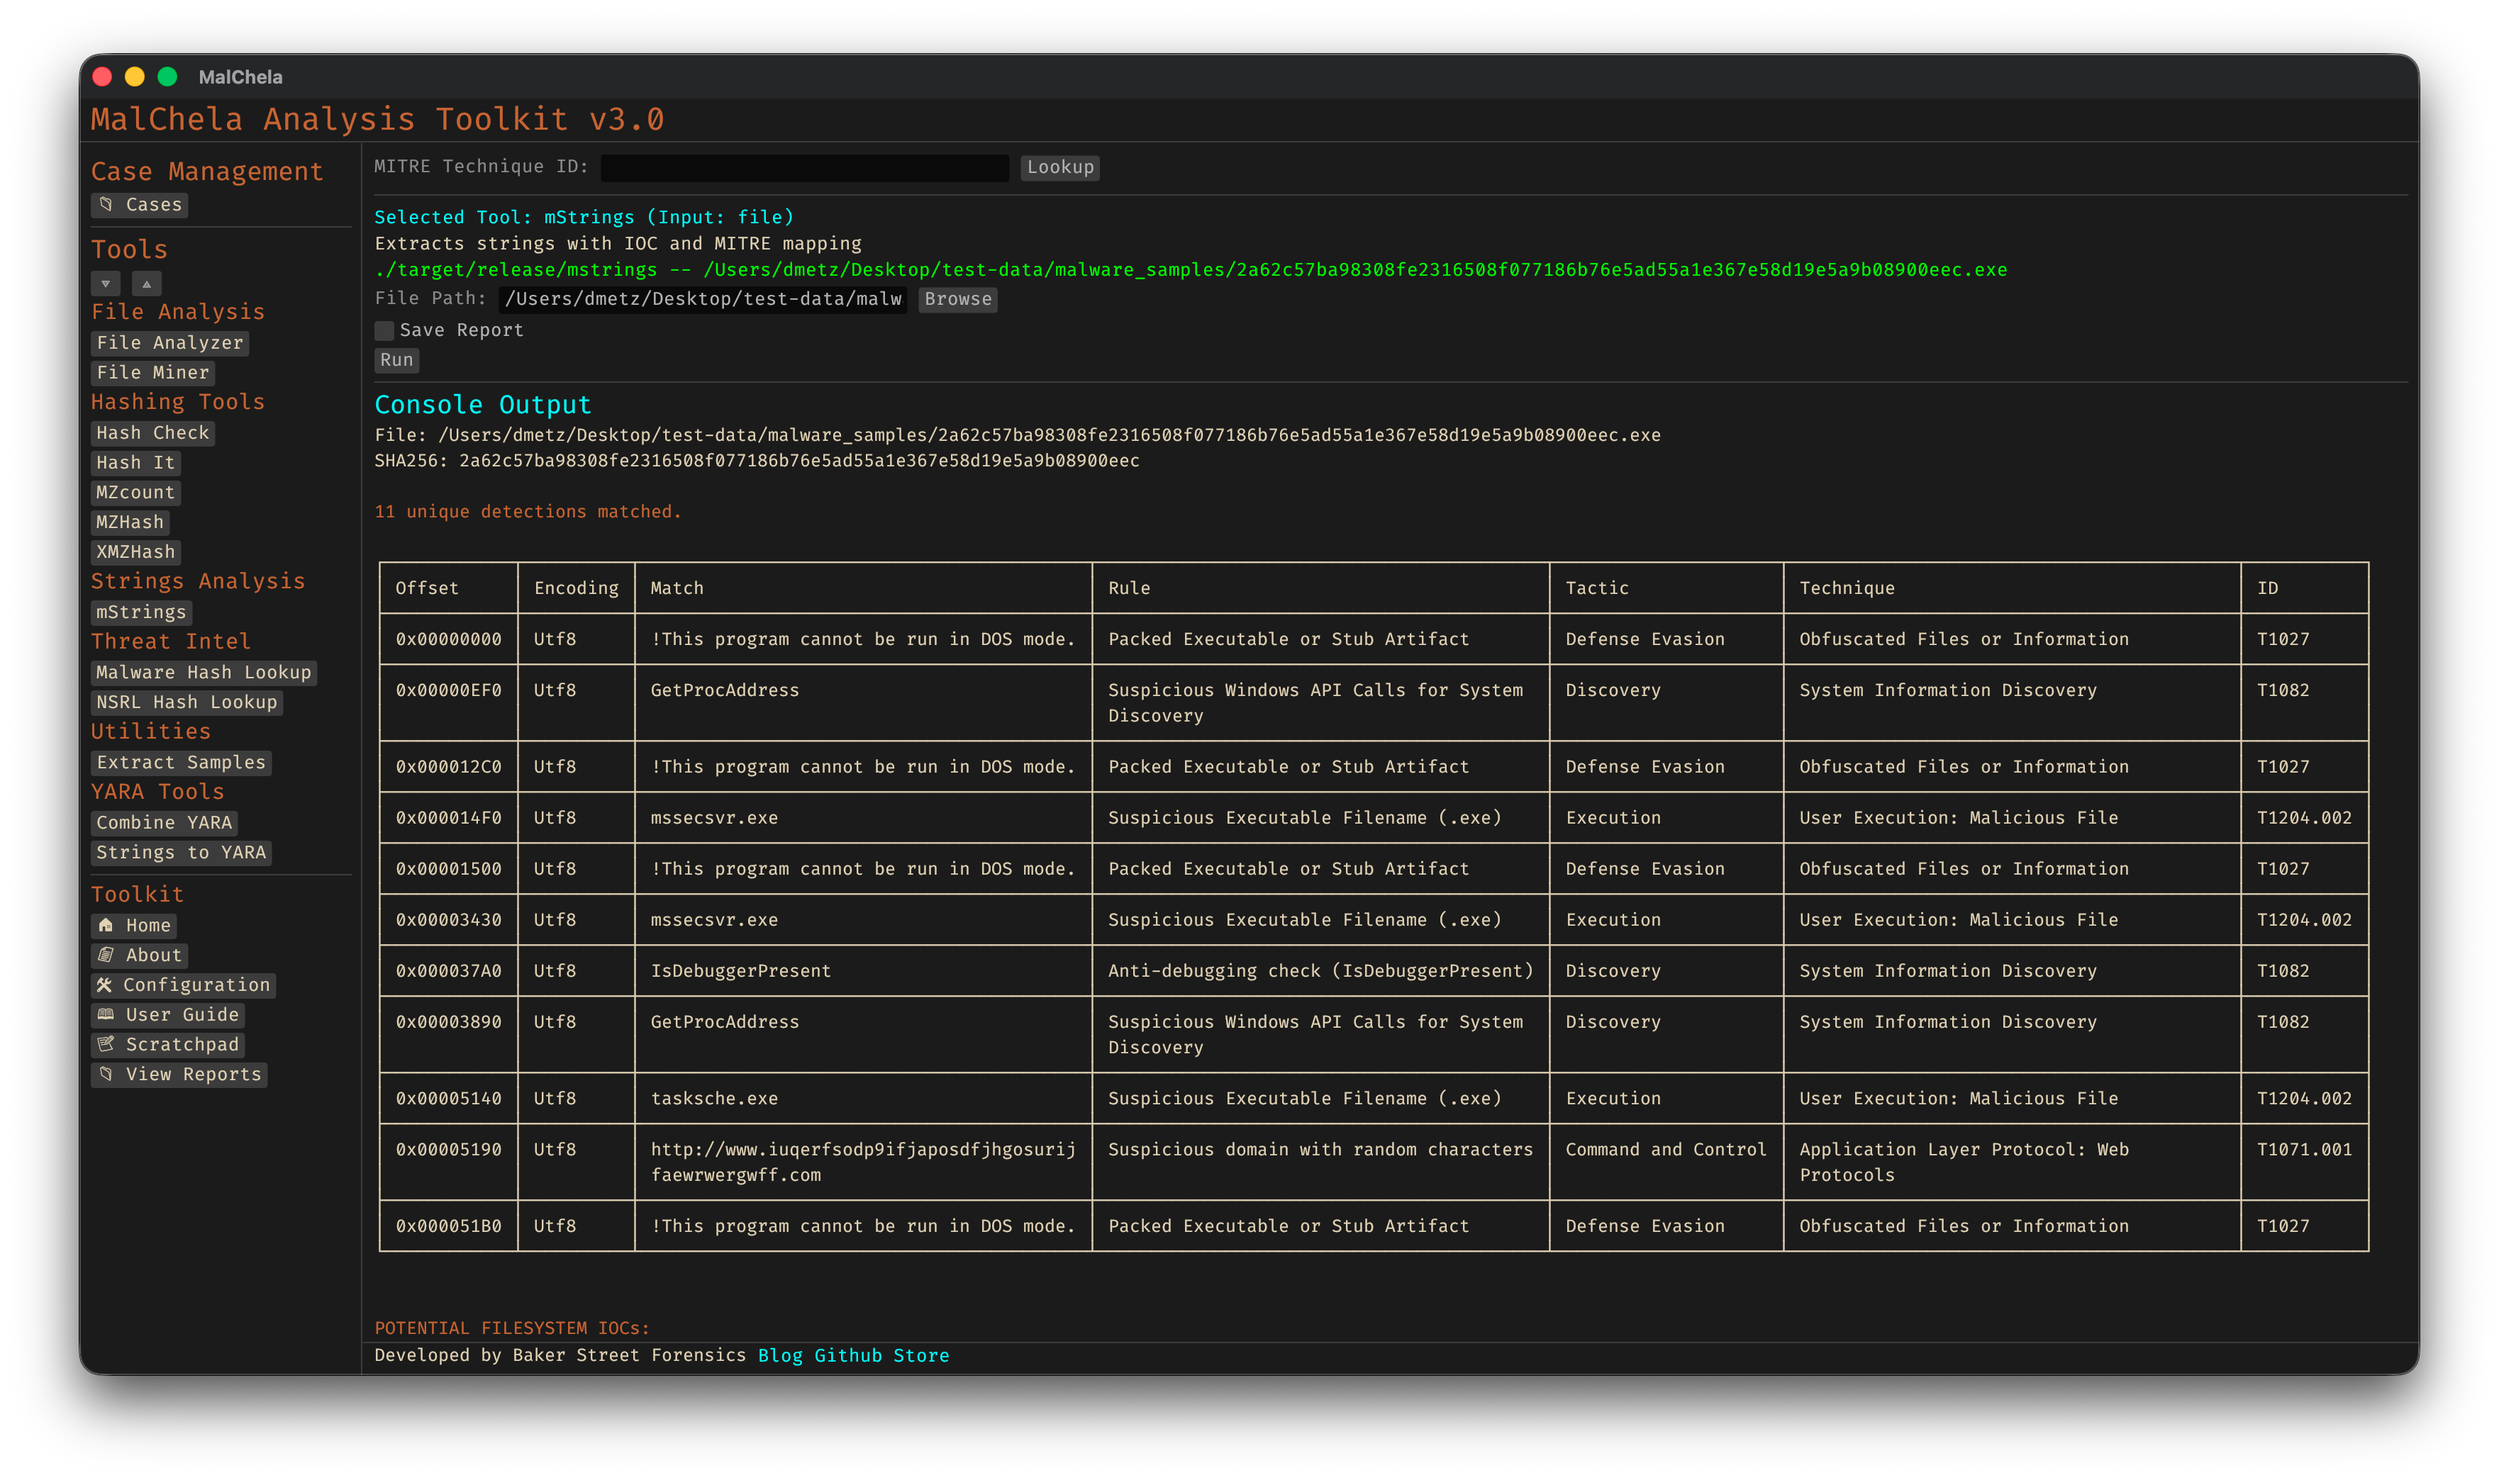
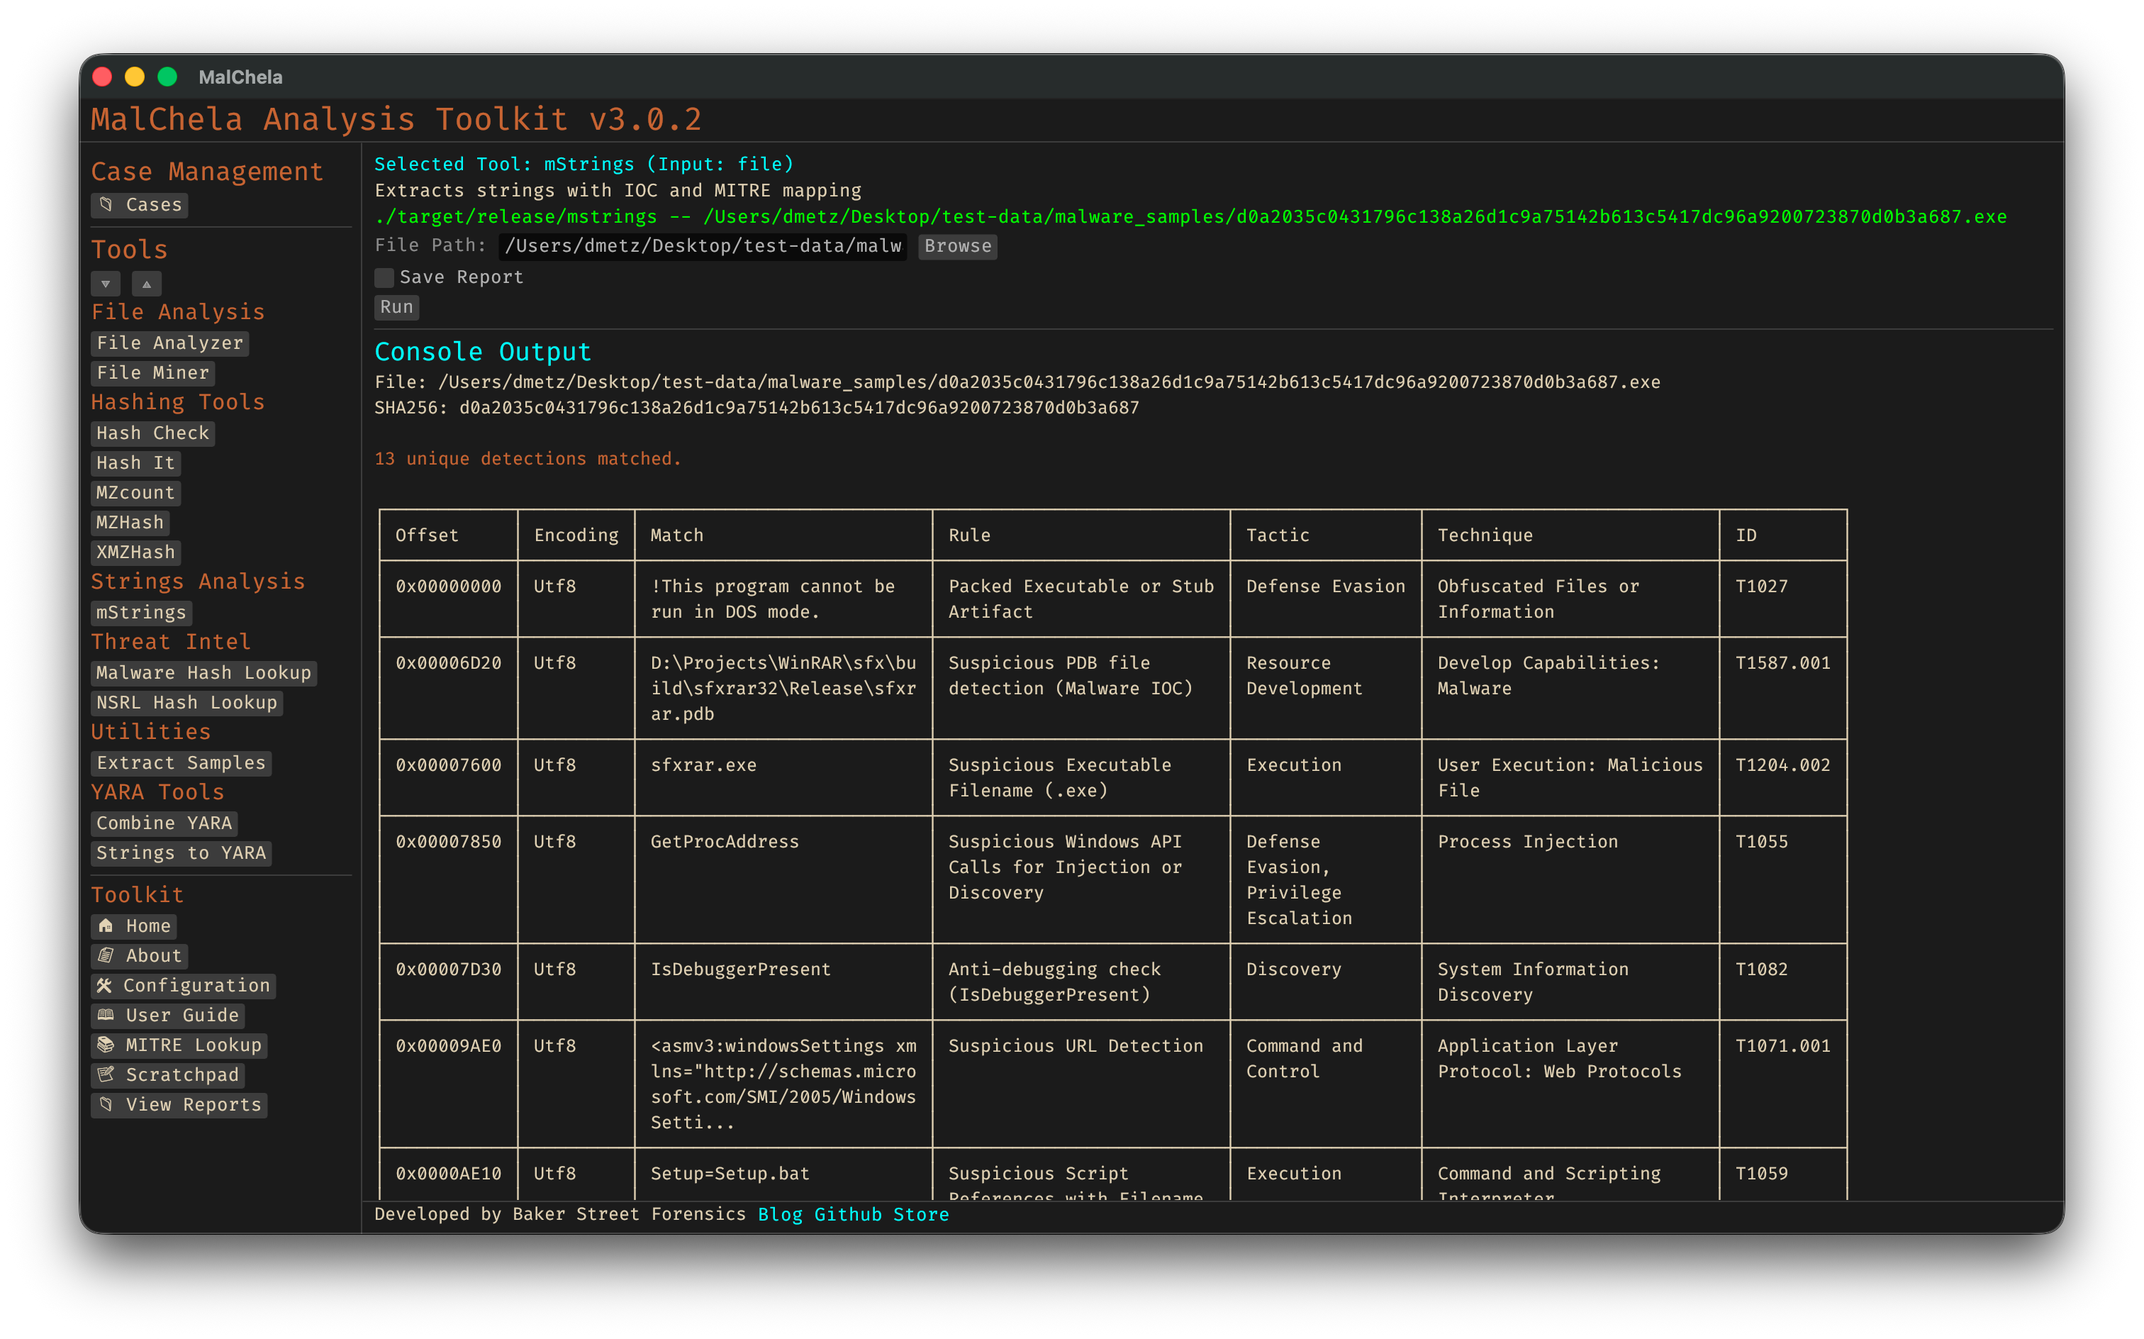
v3.0.2

Changed region(s): [[0.0311, 0.0312, 0.9947, 0.9688], [0.9015, 0.4062, 0.9325, 0.4688], [0.4041, 0.0938, 0.4663, 0.125]]

diff --git a/docs/Coretools/mitre_lookup.md b/docs/Coretools/mitre_lookup.md
@@ -1,0 +1,74 @@
+The MITRE Reference Panel provides a built-in way to explore MITRE ATT&CK techniques directly within MalChela.
+
+This panel supports live search by **technique ID** (e.g., `T1059`) or **keyword** (e.g., "scripting"). It is context-aware and optimized for use alongside tools like `mstrings`.
+
+# MITRE Lookup Panel
+
+## Features
+
+- Full display of technique details:
+  - **Technique title**
+  - **Tactic(s)**
+  - **Platforms**
+  - **Description**
+  - **Detection guidance**
+  - **Malware**
+  - **Tools**
+  - **Intrusion Sets**
+
+
+- Modal view floats above the main console, allowing uninterrupted output viewing
+- --full option to support long-form content (no truncation)
+- Save lookups for later reference or save to a Case
+- Markdown formatting for MITRE reports for inclusion in forensics reports
+
+## Accessing from the MalChela GUI:
+
+- Select **MITRE Lookup** in the left-hand **Toolbox** menu
+- Use the input field at the top of the modal to enter a keyword or technique ID (e.g., `T1059` or `registry`)
+- Use the "Full" checkbox for un-truncated output
+
+![MITRE Lookup](../images/mitre_lookup.png)
+
+<p align="center"><strong>Figure 5.11.1:</strong> MITRE Lookup</p>
+
+## Accessing from CLI
+
+There are two ways to use the MITRE Lookup from the command line:
+
+### 1. From the main MalChela CLI menu
+
+Run the MalChela CLI interface and select `MITRE Lookup` from the Toolbox section:
+
+```bash
+cargo run -p malchela
+```
+
+Then choose `MITRE Lookup` (or press `ml`) from the menu.
+
+### 2. Direct tool execution
+
+You can run the MITRE Lookup tool directly with a search term or flags:
+
+```bash
+# Basic search by keyword or technique ID
+./target/release/MITRE_lookup -- t1027.004
+
+# Use --full to display untruncated results
+./target/release/MITRE_lookup --full -- t1027.004
+```
+![MITRE Lookup (CLI)](../images/mitre_lookup_cli.png)
+
+<p align="center"><strong>Figure 5.11.2:</strong> MITRE Lookup (CLI)</p>
+
+## Example
+
+Searching for `T1027.004` yields:
+
+```
+🔹 T1027.004 - Compile After Delivery  
+Tactic(s): defense-evasion  
+Platforms: Windows, Linux, macOS  
+Detection: Monitor execution of common compilers and correlate with file creation events.  
+Description: Adversaries may compile code after transferring it to a victim system.
+```

diff --git a/docs/Coretools/mstrings.md b/docs/Coretools/mstrings.md
@@ -1,6 +1,6 @@
 mStrings extracts strings from files and classifies them using regular expressions, YARA rules, and MITRE ATT&CK mappings. It highlights potential indicators of compromise and suspicious behavior, grouping matches by tactic and technique. Ideal for quickly surfacing malicious capabilities in binaries, scripts, and documents.
 
-A MITRE Technique Lookup bar is available at the top of the GUI panel when mStrings is selected. You can paste a MITRE technique ID (e.g., `T1055.001`) into the field and click "Lookup" to open the corresponding page on [attack.mitre.org](https://attack.mitre.org/). This is especially useful when reviewing detections with MITRE tags and needing additional context.
+Note: The MITRE Technique Lookup bar, introduced in v3.0.1 has been removed. It has been replaced with a full [MITRE lookup utility](mitre_lookup.md) (no internet required.)
 
 ![MStrings](../images/mstrings.png)
 

diff --git a/docs/Coretools/mzcount.md b/docs/Coretools/mzcount.md
@@ -2,11 +2,11 @@ MZcount recursively scans a directory and counts the number of files that match 
 
 ![MZCount Table View](../images/mzcount_table.png)
 
-<p align="center"><strong>Figure 5.11.1:</strong> MZCount Table View</p>
+<p align="center"><strong>Figure 5.12.1:</strong> MZCount Table View</p>
 
 ![MZCount Detail View](../images/mzcount_detail.png)
 
-<p align="center"><strong>Figure 5.11.2:</strong> MZCount Detail View</p>
+<p align="center"><strong>Figure 5.12.2:</strong> MZCount Detail View</p>
 
 
 

diff --git a/docs/Coretools/strings_to_yara.md b/docs/Coretools/strings_to_yara.md
@@ -4,7 +4,7 @@ Lines beginning with hash: are deliberately ignored during rule generation — t
 
 ![Strings to YARA](../images/strings_to_yara.png)
 
-<p align="center"><strong>Figure 5.14:</strong> Strings to YARA</p>
+<p align="center"><strong>Figure 5.15:</strong> Strings to YARA</p>
 
 ---
 

diff --git a/docs/Coretools/nsrlquery.md b/docs/Coretools/nsrlquery.md
@@ -2,7 +2,7 @@ NSRL Query checks a file hash against the National Software Reference Library (N
 
 ![NSRL Hash Lookup](../images/nsrlquery.png)
 
-<p align="center"><strong>Figure 5.13:</strong> NSRL Hash Lookup</p>
+<p align="center"><strong>Figure 5.14:</strong> NSRL Hash Lookup</p>
 
 ---
 

diff --git a/docs/Coretools/xmzhash.md b/docs/Coretools/xmzhash.md
@@ -14,7 +14,7 @@ These hash sets (.tsv preferred) can be used with [HashCheck](hashcheck.md).
 
 ![XMZHash](../images/xmzhash.png)
 
-<p align="center"><strong>Figure 5.15:</strong> XMZHash</p>
+<p align="center"><strong>Figure 5.16:</strong> XMZHash</p>
 
 ---
 

diff --git a/docs/Coretools/mzhash.md b/docs/Coretools/mzhash.md
@@ -14,7 +14,7 @@ These hash sets (.tsv preferred) can be used with [HashCheck](hashcheck.md).
 
 ![MZHash](../images/mzhash.png)
 
-<p align="center"><strong>Figure 5.12:</strong> MZHash</p>
+<p align="center"><strong>Figure 5.13:</strong> MZHash</p>
 
 ---
 
